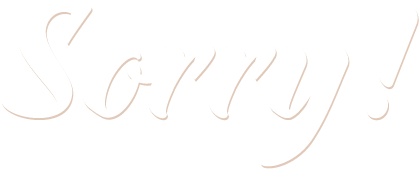
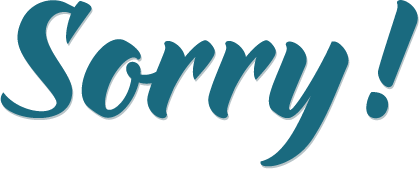
fixing blank page because we need a class

Changed region(s): [[0.0, 0.0, 0.8377, 1.0], [0.8687, 0.0, 1.0, 0.7101]]

diff --git a/socialpakt_site/socialpakt_proto/static/blank.css b/socialpakt_site/socialpakt_proto/static/blank.css
@@ -3,10 +3,12 @@
 /* what happens if no shirt is defined? if product or bg images are missing? */
 
 /* if no bg photo or color is defined */
-body.blank {background-color: #053745; background-image: url(images/shirt_fallback_texture.png);}
+body.static {background: rgb(255, 255, 255);} 
+body {background-color: #053745; background-image: url(images/shirt_fallback_texture.png);}
 
 	#product_coming {}
+		#product_coming:after {content: "."; display: block; height: 0; clear: both; visibility: hidden;}
 		#product_coming h1 {text-indent: -9999em; background: url(images/blank_sorry.png) no-repeat center right; width: 660px; height: 170px; float: left;}
-		#product_coming h3, #product_coming p {width: 435px; float: right; margin-left: 35px; color: rgb(255, 255, 255);}
+		#product_coming h3, #product_coming p {width: 435px; float: right; margin-left: 35px; color: rgb(26, 106, 127);}
 		#product_coming h3 {padding-top: 60px; margin-bottom: 0;}
 		#product_coming p {margin: 10px 0;}

diff --git a/socialpakt_site/socialpakt_proto/static/base.css b/socialpakt_site/socialpakt_proto/static/base.css
@@ -13,7 +13,7 @@
 /* ---------- GLOBAL TEXT AND LINK STYLES ---------- */
 /* ------------------------------------------------- */
 
-body {margin: 0; padding: 0; border-top: 3px solid rgb(29, 116, 138); background-color: rgb(247, 247, 247); color: rgb(51, 51, 51); font-family: Geneva, Verdana, Arial, sans-serif; font-size: 16px; line-height: 1.8em;}
+body {margin: 0; padding: 0; border-top: 3px solid rgb(29, 116, 138); /* background-color: rgb(247, 247, 247); */ color: rgb(51, 51, 51); font-family: Geneva, Verdana, Arial, sans-serif; font-size: 16px; line-height: 1.8em;}
   .wf-inactive body {font-family: Geneva, Verdana, Arial, sans-serif;}
   .wf-active body {font-family: "proxima-nova", Proxima Nova, Geneva, Verdana, Arial, sans-serif;}
 

diff --git a/socialpakt_site/socialpakt_proto/templates/base.html b/socialpakt_site/socialpakt_proto/templates/base.html
@@ -31,7 +31,7 @@
 
 </head>
 
-<body class="blank {% if product %}{{product.slug}}{% else %}static{% endif %}"{% if product.background_photo %} style="background-image:url({{ product.background_photo.url }})"{% else %}{% endif %}>
+<body class="{% if product %}{{product.slug}}{% else %}static{% endif %}"{% if product.background_photo %} style="background-image:url({{ product.background_photo.url }})"{% else %}{% endif %}>
 
     {% block header %}
   <!-- Header - toggle expanded/collapsed class to show/hide information - needs to be location aware -->

diff --git a/socialpakt_site/socialpakt_proto/static/pages.css b/socialpakt_site/socialpakt_proto/static/pages.css
@@ -1,7 +1,6 @@
 /* ---------- LIST AND STATIC PAGES ---------------- */
 /* ------------------------------------------------- */
 
-body.blank.static {background: rgb(255, 255, 255) !important;} 
 /* TODO change this to just static when we make the blank class dynamic */
 
 #partnerblock {width: 1200px; margin: 0 auto; padding-bottom: 80px;} /* TODO add wrapper class */
